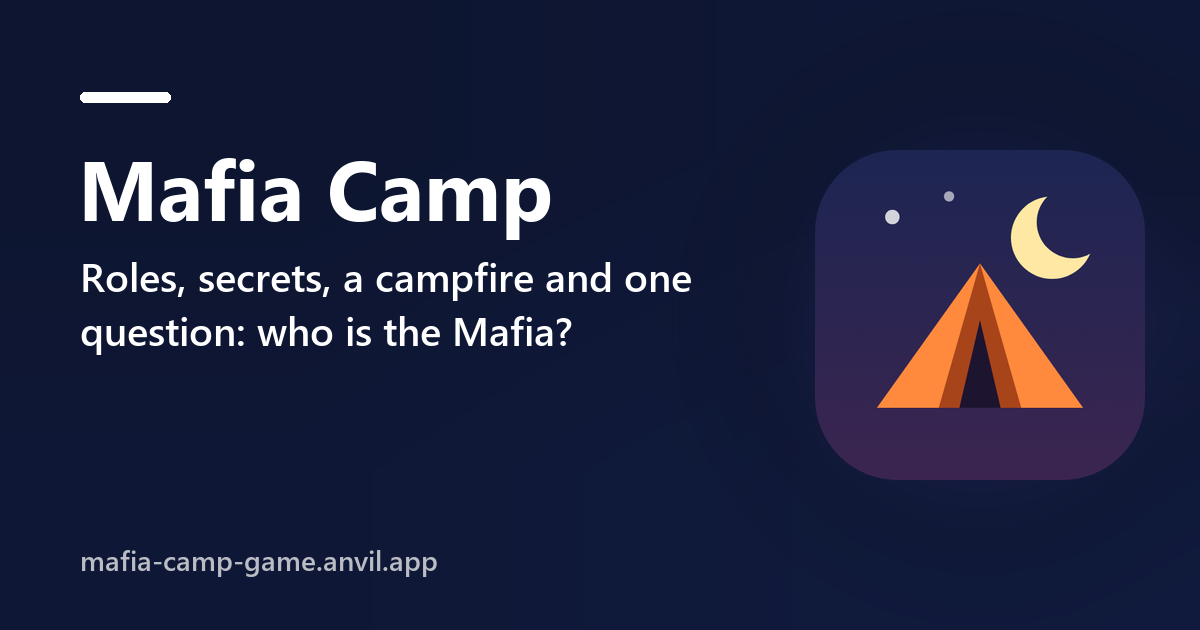
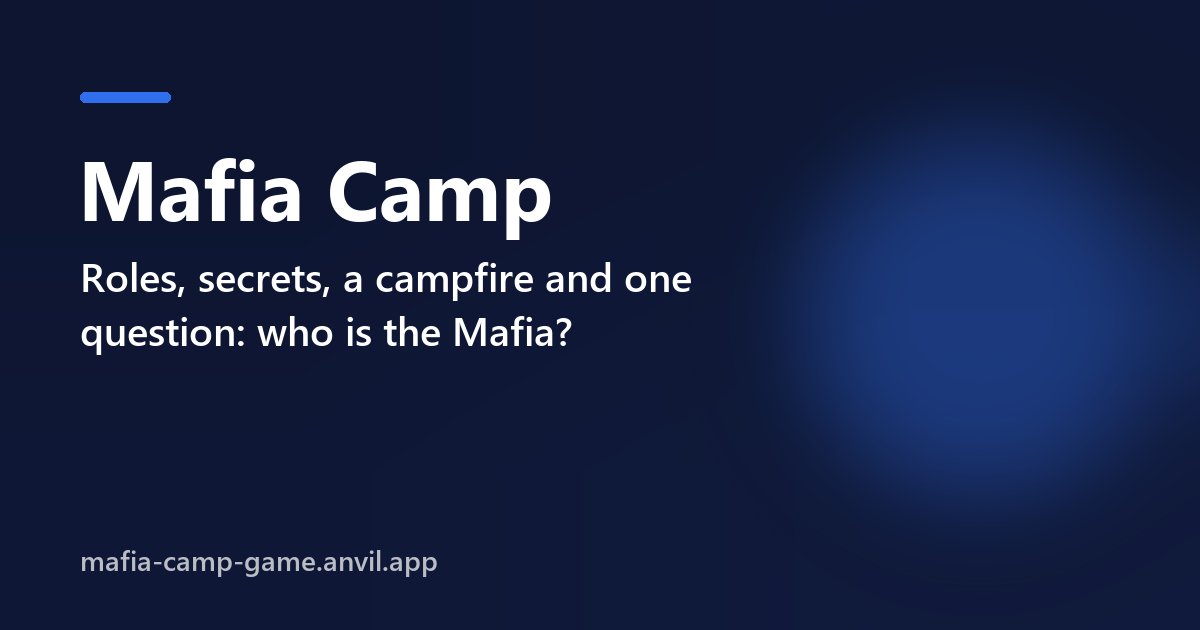
SEO: valid schema.org fields (availableLanguage on ServiceChannel, no browserRequirements on games)

Changed region(s): [[0.6475, 0.2714, 1.0, 0.8143], [0.74, 0.181, 0.8942, 0.2413], [0.0617, 0.1206, 0.1542, 0.181]]

diff --git a/server_code/seo_routes.py b/server_code/seo_routes.py
@@ -59,11 +59,11 @@ SEO = {
  ],
  "site": "https://mafia-camp-game.anvil.app",
  "updated": "2026-11-09",
- "icon": "logo.png",
+ "icon": "icon-512.png",
  "colors": {
   "bg": "#0d1530",
   "ink": "#ffffff",
-  "brand": "#242454",
+  "brand": "#2f6fed",
   "on": "#ffffff"
  }
 }
@@ -147,18 +147,25 @@ def _ld(o):
         app["serviceType"] = s.get("service_type", s.get("tagline", s["title"]))
         app["provider"] = {"@id": "https://arkvital.com/#org"}
         app["areaServed"] = "Worldwide"
-        app["availableChannel"] = {"@type": "ServiceChannel", "serviceUrl": o + "/", "name": "Web browser"}
+        # availableLanguage belongs on the channel (schema.org has no Service.availableLanguage)
+        app["availableChannel"] = {"@type": "ServiceChannel", "serviceUrl": o + "/", "name": "Web browser",
+                                   "availableLanguage": s.get("lang", "en")}
         del app["inLanguage"], app["publisher"], app["keywords"]
-        app["availableLanguage"] = s.get("lang", "en")
+    if app["@type"] == "ProfessionalService":
+        # an Organization: knowsLanguage, not inLanguage (a CreativeWork field)
+        app["knowsLanguage"] = app.pop("inLanguage")
+        del app["publisher"]
     if app["@type"] in ("WebApplication", "VideoGame"):
         app["applicationCategory"] = s.get("category", "WebApplication")
         app["operatingSystem"] = "Any (web browser)"
+    if app["@type"] == "WebApplication":
         app["browserRequirements"] = "Requires JavaScript and a modern web browser"
+    if app["@type"] in ("WebApplication", "VideoGame"):
         if s.get("features"):
             app["featureList"] = s["features"]
     if s.get("free"):
         app["offers"] = {"@type": "Offer", "price": "0", "priceCurrency": "CAD"}
-    if s.get("audience"):
+    if s.get("audience") and app["@type"] != "ProfessionalService":
         app["audience"] = {"@type": "Audience", "audienceType": s["audience"]}
     page = {"@type": "AboutPage", "@id": o + "/about#page", "url": o + "/about", "name": "About " + s["name"],
             "about": {"@id": o + "/#app"}, "isPartOf": {"@id": o + "/#site"}}
